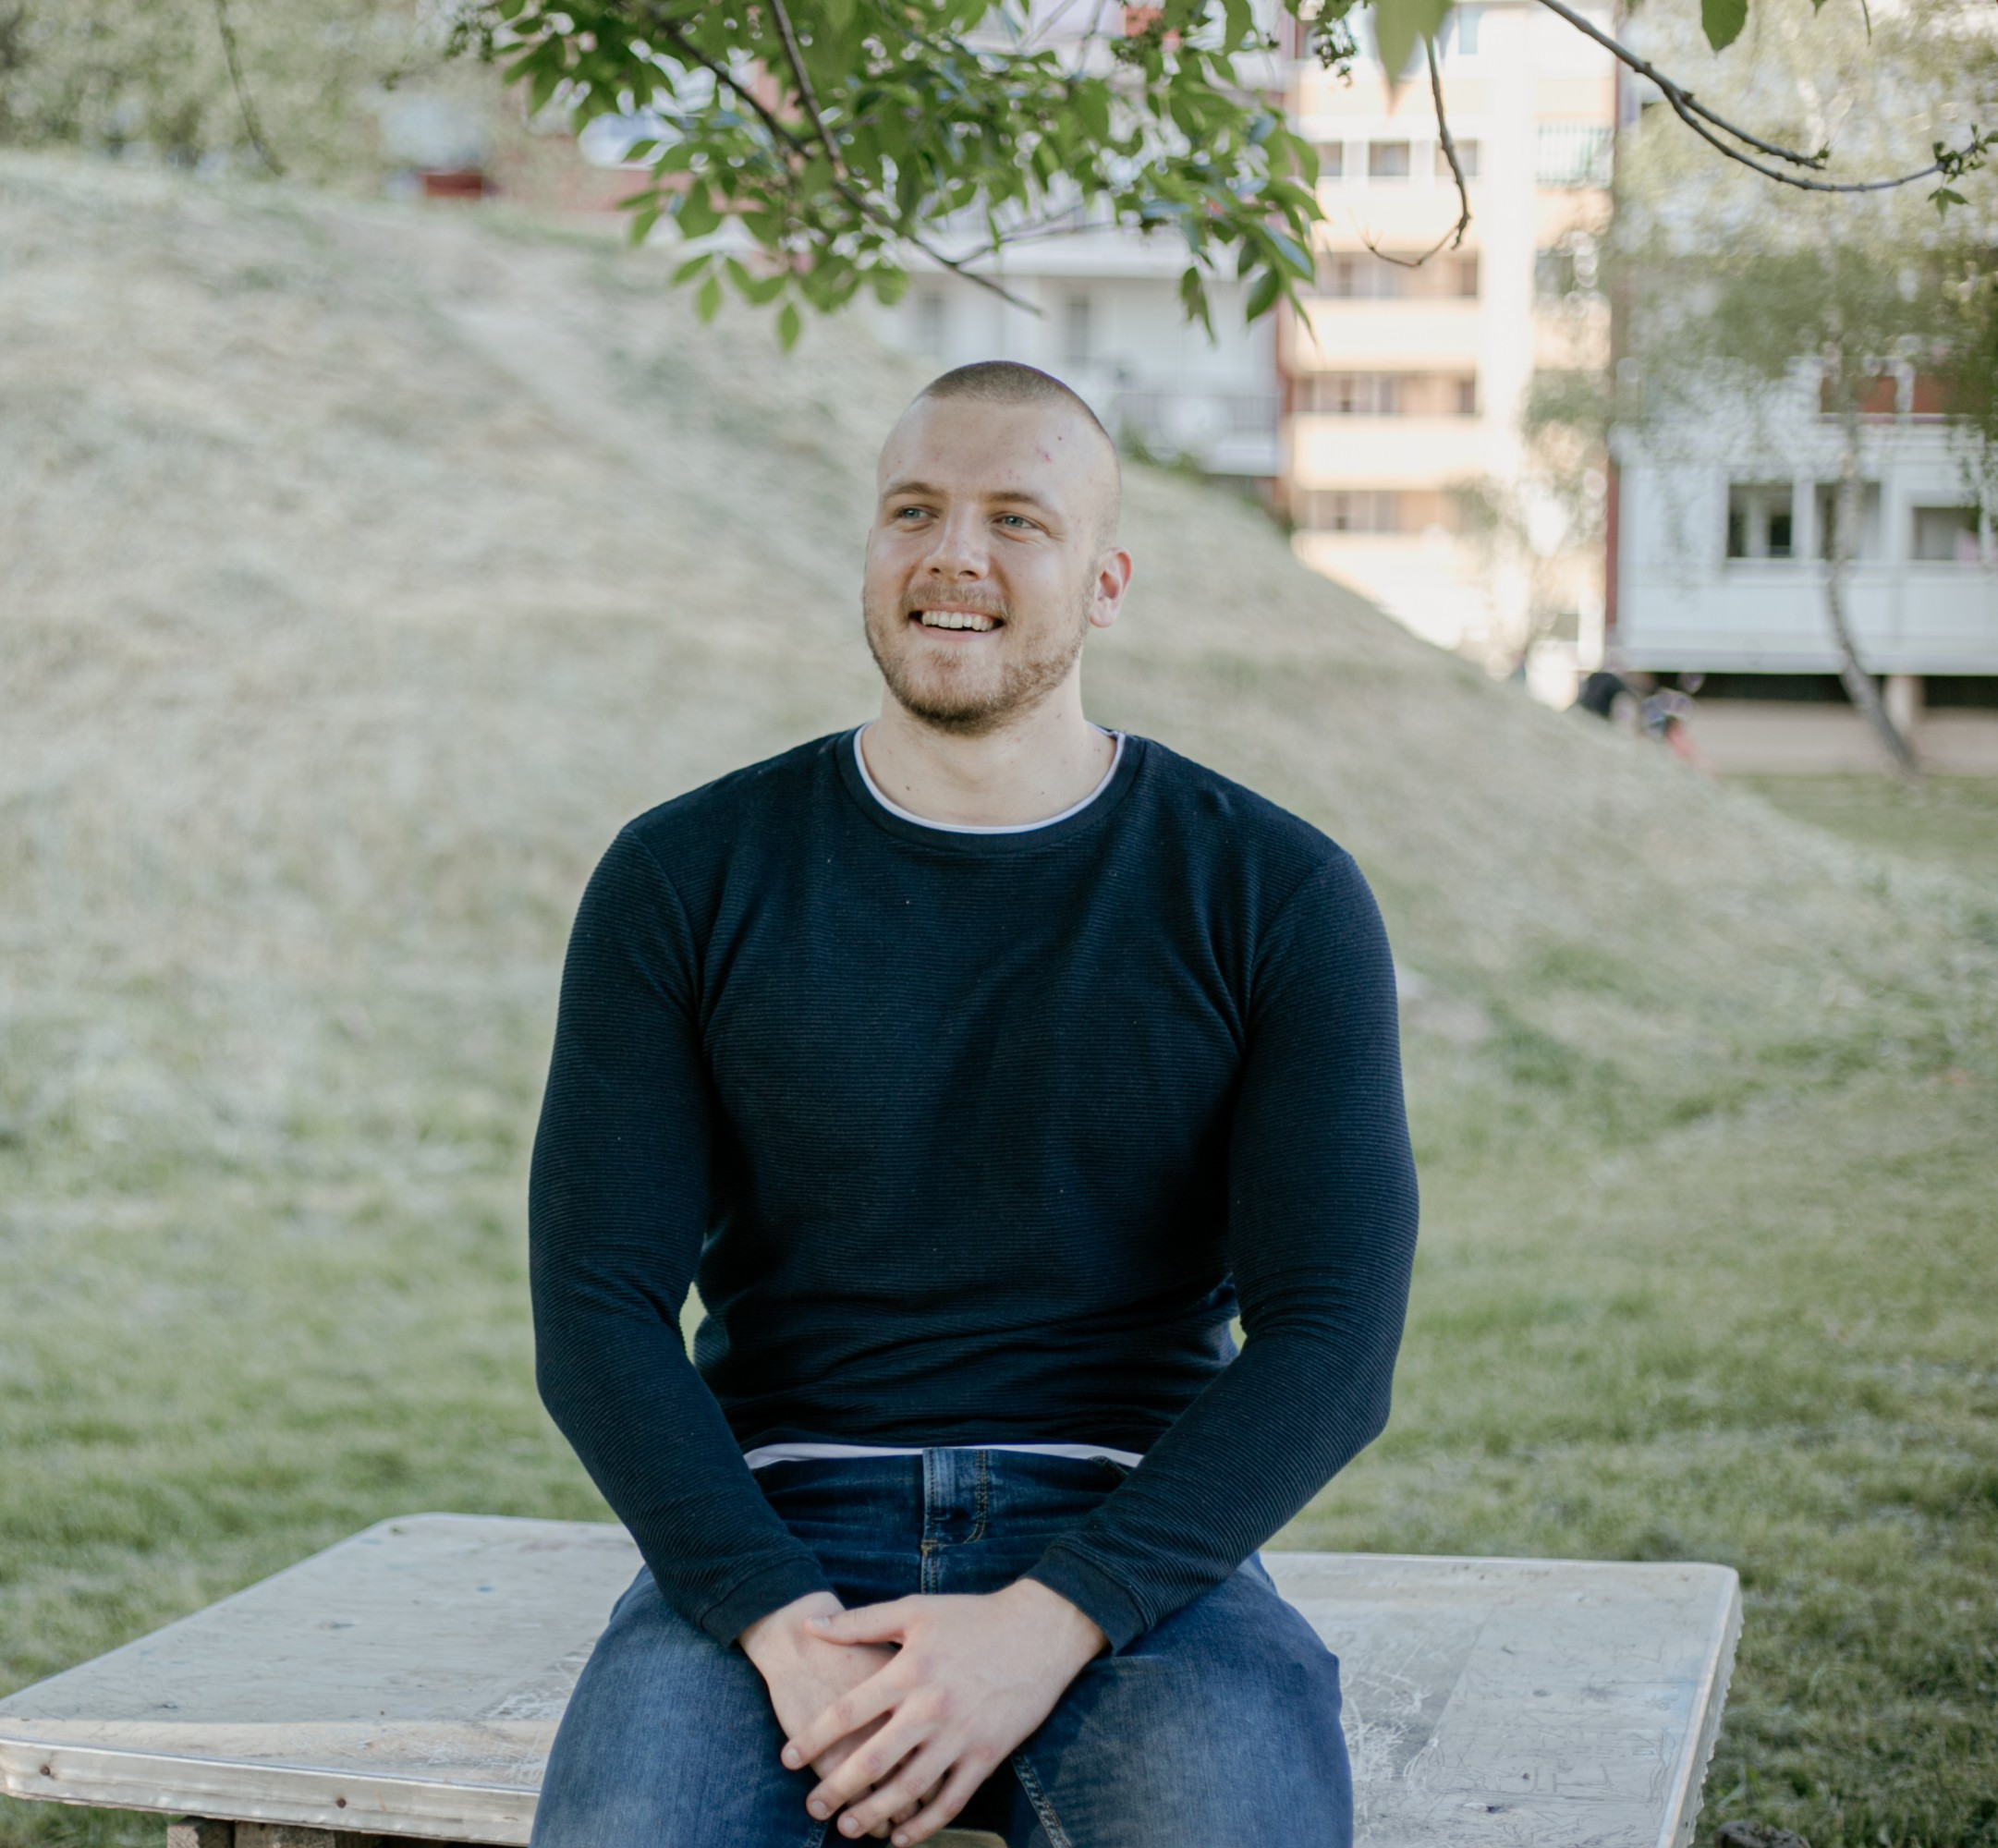
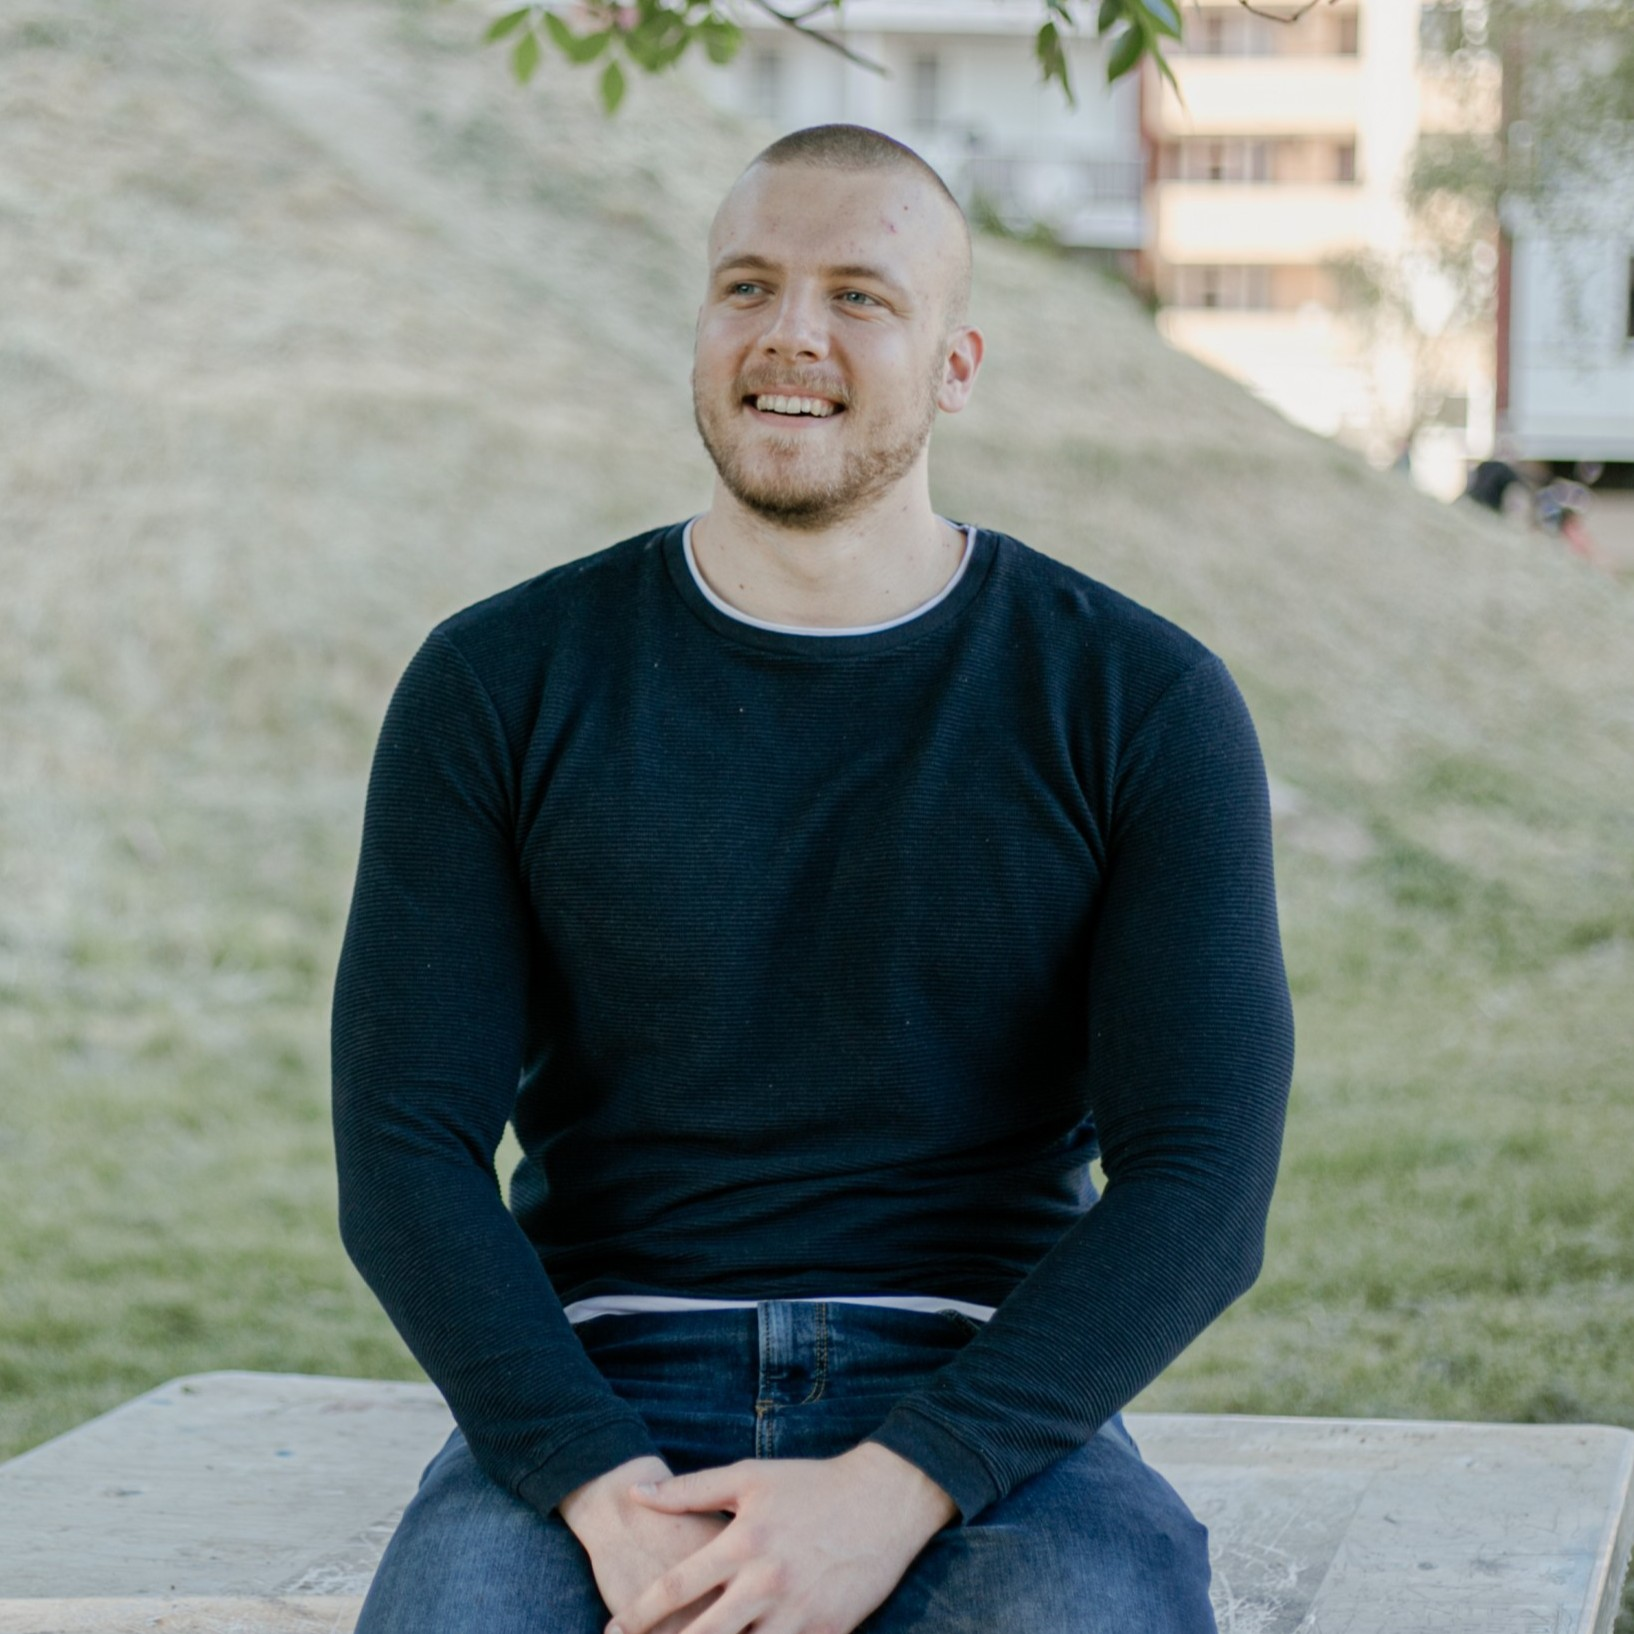
feat: shorter hero, image shifted right + scaled up; new about photo IMG_0434

diff --git a/style.css b/style.css
@@ -170,7 +170,7 @@ header {
 
 /* ─── HERO ─── */
 .hero {
-  padding: 64px 0 40px;
+  padding: 44px 0 28px;
   border-bottom: 1px solid var(--line);
   position: relative;
   overflow: visible;
@@ -199,7 +199,7 @@ header {
   position: relative;
   z-index: 2;
   aspect-ratio: 4/5;
-  transform: translateY(60px) translateX(12%) scale(1.1);
+  transform: translateY(60px) translateX(20%) scale(1.18);
   display: flex;
   flex-direction: column;
   align-items: center;